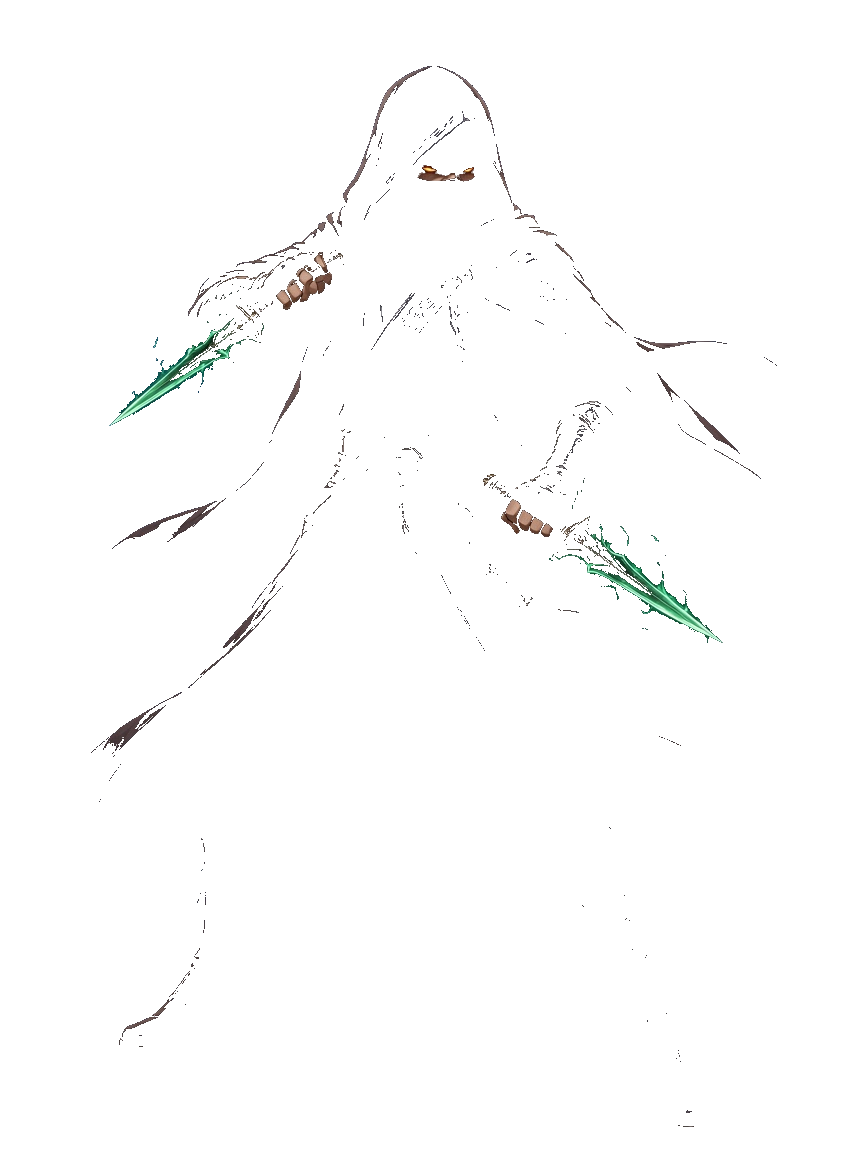
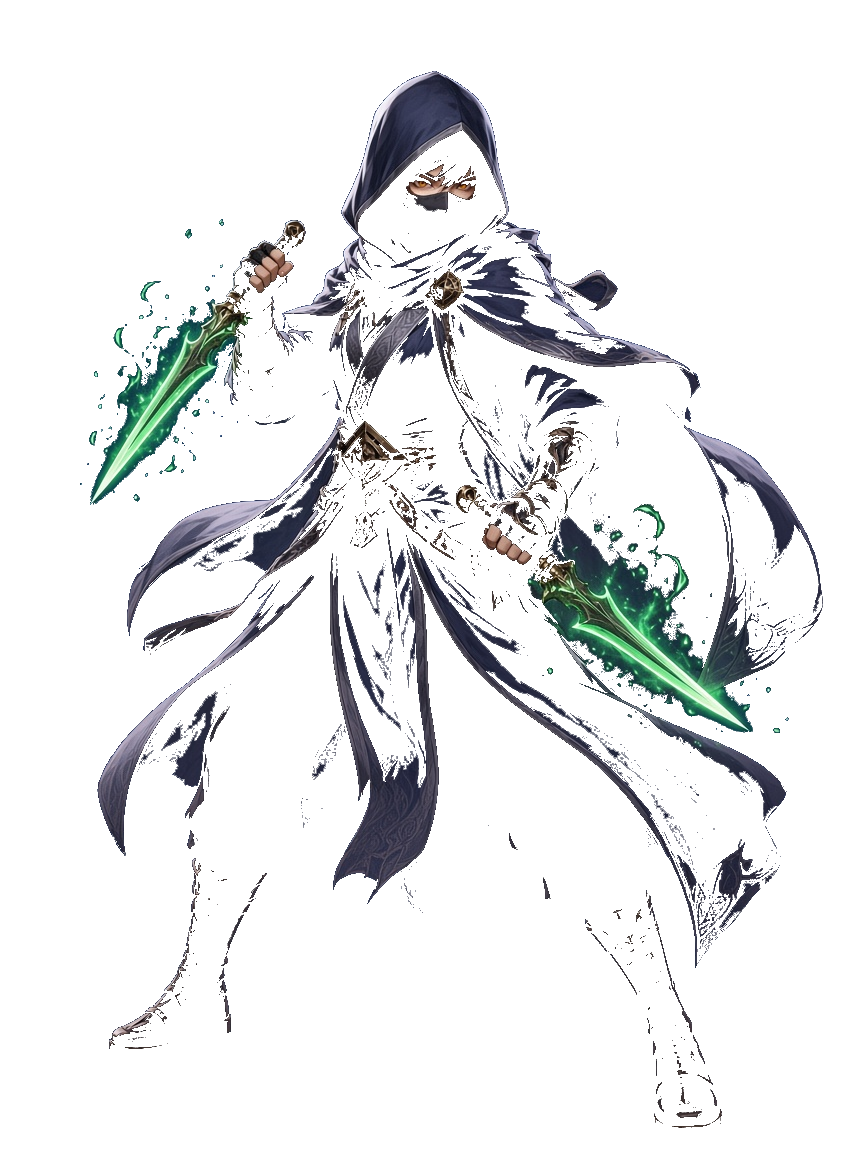
Fix character visibility: regenerate readable enemy sprites and conservative background removal.

diff --git a/index.html b/index.html
@@ -294,11 +294,18 @@
     .char-art {
       width: min(42vw, 168px); height: auto; max-height: 42vh;
       object-fit: contain; object-position: bottom center;
-      filter: drop-shadow(0 10px 16px rgba(0,0,0,0.55));
+      filter: drop-shadow(0 8px 14px rgba(0,0,0,0.55)) drop-shadow(0 0 18px rgba(148, 180, 220, 0.22));
       display: block; margin: 0 auto;
       user-select: none; -webkit-user-drag: none;
       background: transparent !important;
       mix-blend-mode: normal;
+      image-rendering: auto;
+    }
+    #mulan-sprite .char-art {
+      filter: drop-shadow(0 8px 14px rgba(0,0,0,0.5)) drop-shadow(0 0 16px rgba(251, 191, 36, 0.18));
+    }
+    #enemy-sprite .char-art {
+      filter: drop-shadow(0 8px 14px rgba(0,0,0,0.55)) drop-shadow(0 0 20px rgba(125, 211, 252, 0.28));
     }
     #mulan-sprite, #enemy-sprite {
       background: transparent !important;
@@ -319,12 +326,12 @@
       .skill-label { font-size: 0.75rem; }
     }
     .eyes-charge .char-art {
-      filter: drop-shadow(0 10px 16px rgba(0,0,0,0.55)) drop-shadow(0 0 14px rgba(239,68,68,0.85));
+      filter: drop-shadow(0 8px 14px rgba(0,0,0,0.55)) drop-shadow(0 0 18px rgba(239,68,68,0.9));
       animation: charCharge 0.35s ease-in-out infinite alternate;
     }
     @keyframes charCharge {
-      from { filter: drop-shadow(0 10px 16px rgba(0,0,0,0.55)) drop-shadow(0 0 8px rgba(239,68,68,0.5)); }
-      to { filter: drop-shadow(0 10px 16px rgba(0,0,0,0.55)) drop-shadow(0 0 18px rgba(248,113,113,1)); }
+      from { filter: drop-shadow(0 8px 14px rgba(0,0,0,0.55)) drop-shadow(0 0 10px rgba(239,68,68,0.55)); }
+      to { filter: drop-shadow(0 8px 14px rgba(0,0,0,0.55)) drop-shadow(0 0 22px rgba(248,113,113,1)); }
     }
     #fx-canvas {
       position: absolute; inset: 0; width: 100%; height: 100%;
@@ -450,7 +457,7 @@
             </div>
           </div>
           <div id="mulan-sprite" class="idle-float relative">
-            <img class="char-art" src="assets/mulan.png?v=3" alt="巾幗劍仙 木蘭" width="230" height="307" decoding="async" />
+            <img class="char-art" src="assets/mulan.png?v=4" alt="巾幗劍仙 木蘭" width="230" height="307" decoding="async" />
           </div>
         </div>
 
@@ -473,9 +480,9 @@
             </div>
           </div>
           <div id="enemy-sprite" class="enemy-sway relative">
-            <img id="enemy-svg-assassin" class="char-art" src="assets/assassin.png?v=3" alt="幽陵刺客" width="230" height="307" decoding="async" />
-            <img id="enemy-svg-general" class="char-art hidden" src="assets/general.png?v=3" alt="漠北騎督" width="230" height="307" decoding="async" />
-            <img id="enemy-svg-poet" class="char-art hidden" src="assets/poet.png?v=3" alt="李白劍魂" width="230" height="307" decoding="async" />
+            <img id="enemy-svg-assassin" class="char-art" src="assets/assassin.png?v=4" alt="幽陵刺客" width="230" height="307" decoding="async" />
+            <img id="enemy-svg-general" class="char-art hidden" src="assets/general.png?v=4" alt="漠北騎督" width="230" height="307" decoding="async" />
+            <img id="enemy-svg-poet" class="char-art hidden" src="assets/poet.png?v=4" alt="李白劍魂" width="230" height="307" decoding="async" />
           </div>
         </div>
       </div>
